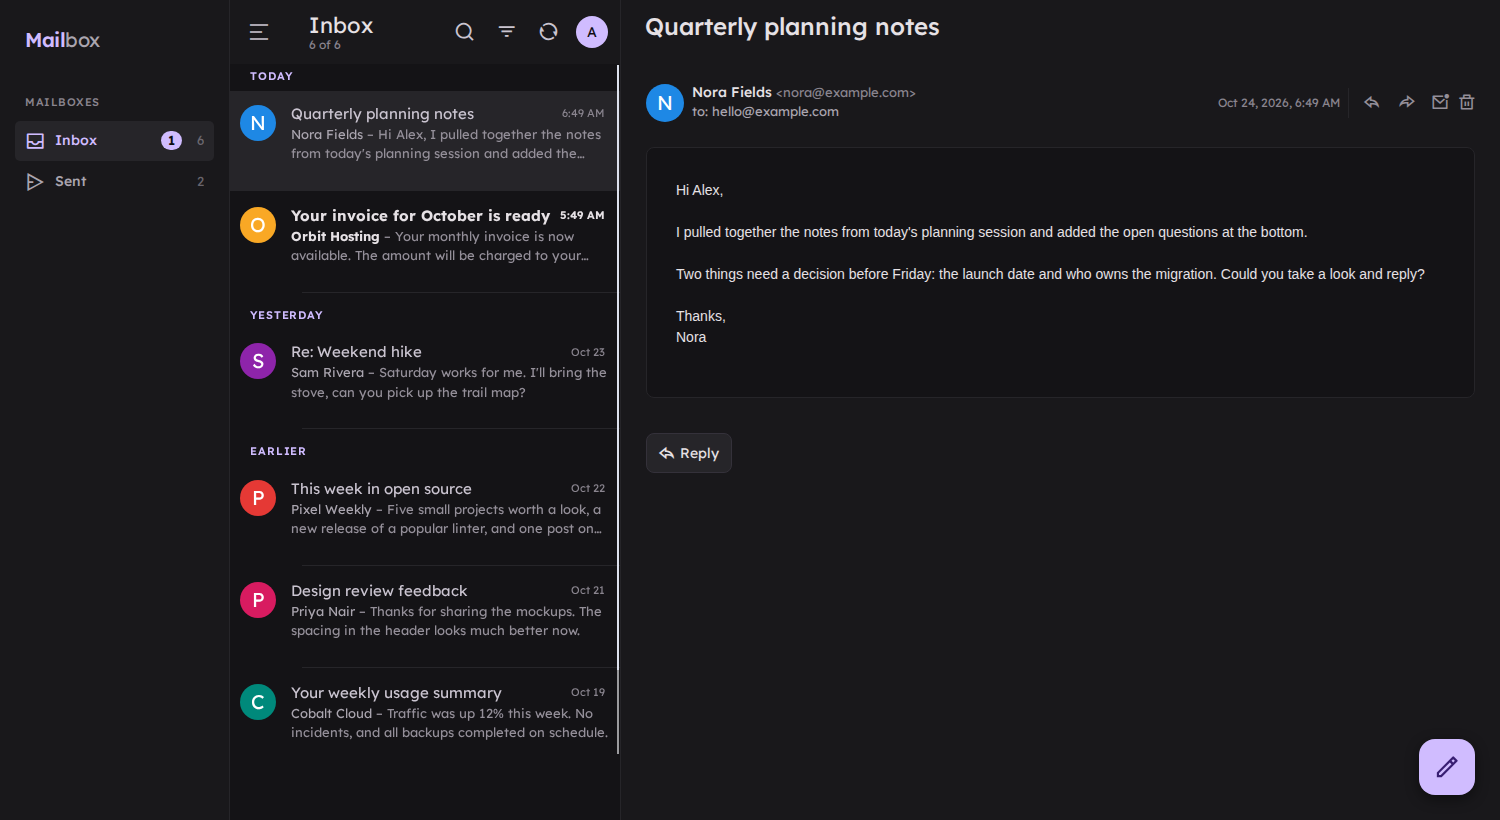
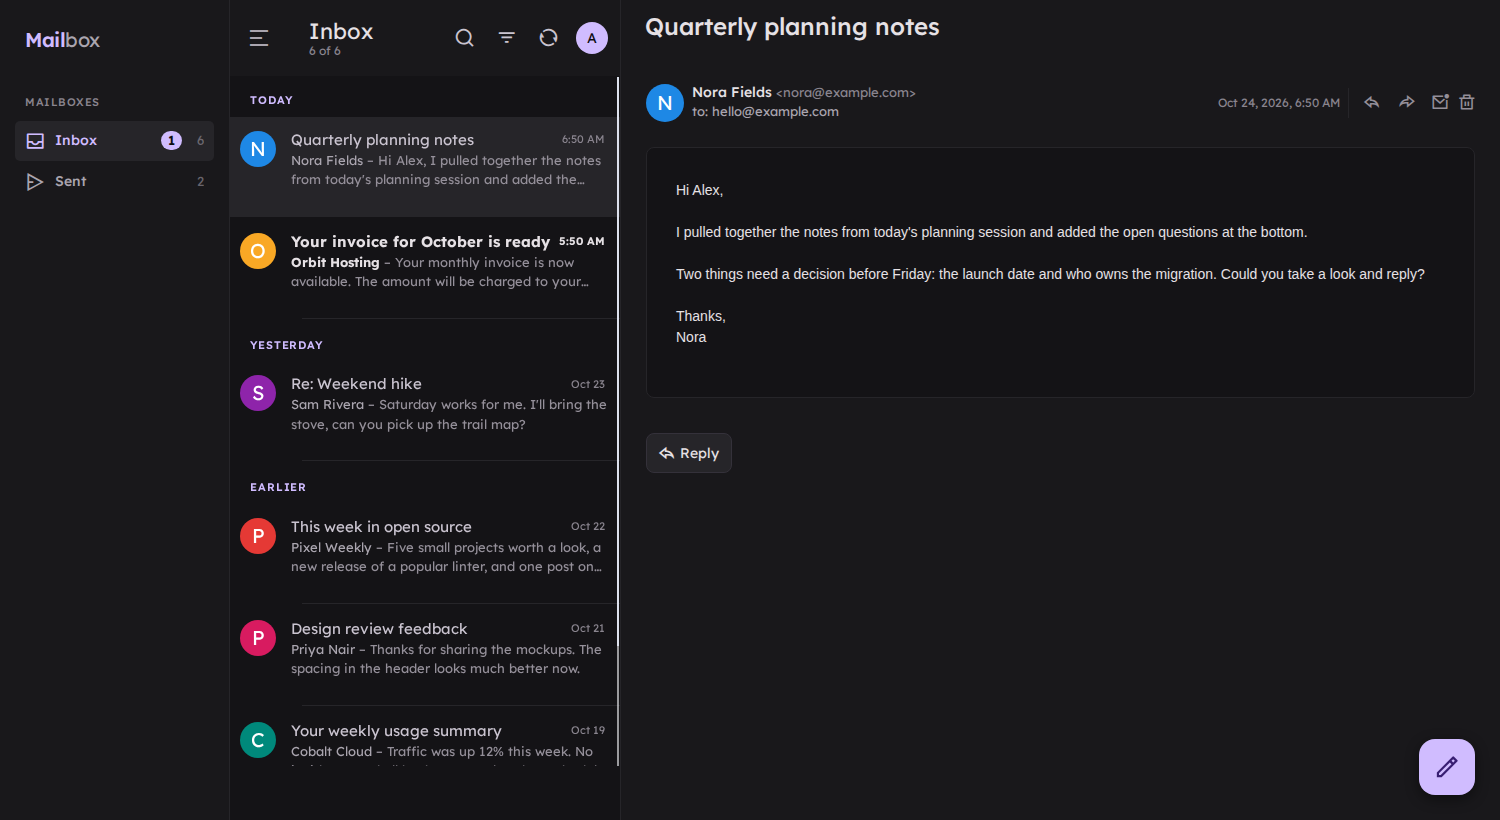
More breathing room under the app bar; refresh README screenshots

diff --git a/public/assets/css/app.css b/public/assets/css/app.css
@@ -361,3 +361,9 @@ input[type="checkbox"] { accent-color: var(--peach); }
 .filter-chip button { border: 0; background: transparent; color: inherit; display: inline-flex; padding: 2px; border-radius: 50%; font-size: 16px; cursor: pointer; }
 .filter-chip button:hover { background: var(--surface2); }
 .appbar-actions > a.on:not(.mail-avatar) { color: var(--peach); }
+
+/* breathing room: app bar, first day label, and space under the last row for the compose button */
+.mailbox-header { min-height: 76px; padding-top: calc(14px + env(safe-area-inset-top)); padding-bottom: 14px; }
+.mail-group { padding-top: 12px; padding-bottom: 104px; }
+.mail-day { padding: 18px 20px 8px; }
+.filter-chip { margin-top: 12px; margin-bottom: 4px; }
